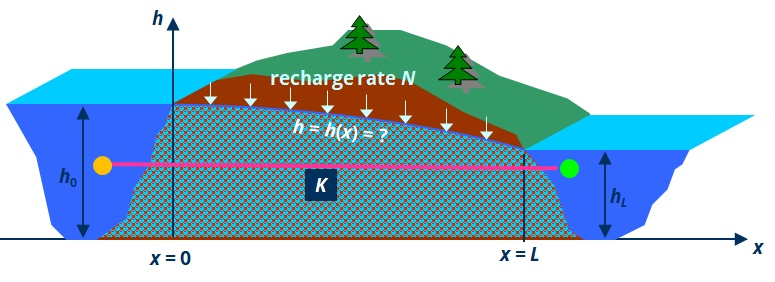
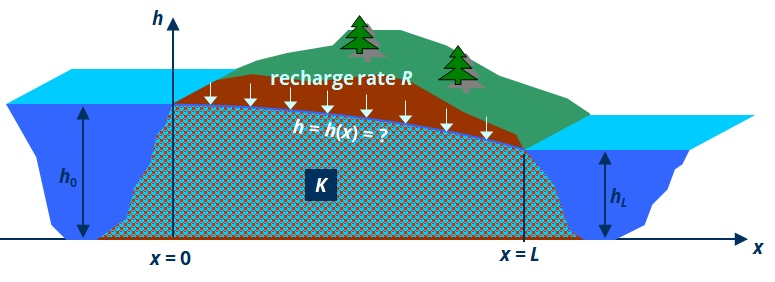
updates

Changed region(s): [[0.0929, 0.539, 0.7742, 0.6525], [0.5265, 0.2553, 0.5574, 0.3121]]

diff --git a/90_Streamlit_apps/SYMPLE25/pages/00_OM/1D_GWF_Unconfined Recharge.py b/90_Streamlit_apps/SYMPLE25/pages/00_OM/1D_GWF_Unconfined Recharge.py
@@ -7,6 +7,12 @@ import streamlit_book as stb
 from streamlit_extras.stylable_container import stylable_container
 
 st.title('Initial example for :green[System Understanding through Model Analysis]')
+
+st.markdown(
+    """
+    The aim of this tools is to provide an initial example of a model application. For this reason, the app considers a idealized scenario of a possible accident in a groundwater catchment. The analysis is done with an analytical solution of a groundwater flow model. This model allows to gain system understanding for the investigated aquifer, and to answer simple questions regarding groundwater management.
+    """
+)
 st.header('Analytical solution for 1D unconfined flow with two defined head boundaries', divider="green")
 st.markdown(
     """
@@ -27,14 +33,18 @@ st.markdown(
     
     """
 )
-left_co, right_co = st.columns((1,1))
-with left_co:
+left_co1, right_co1 = st.columns((1,1))
+with left_co1:
     st.image('90_Streamlit_apps/SYMPLE25/assets/images/GWF/GWF_002.jpg', caption="Fig 02: Top view of the area, showing the close proximity of active open pit mines and post-mining lakes. The spatial extent of the areal view is several 10s of kilometers.")
-with right_co:
+with right_co1:
     st.image('90_Streamlit_apps/SYMPLE25/assets/images/GWF/GWF_003.jpg', caption="Fig 03: Picture from the inside of an open pit mine, showing the geological composition of the underground, which is mainly thick sandy structures.")
 "---"
 
-if st.button('Click here if you want to read more about the underlying theory'):
+lc1, mc1, rc1 = st.columns([1,4,1])
+with mc1:
+    show_theory = st.button('Click here if you want to read more about the underlying theory')
+    
+if show_theory:
     st.subheader('Conceptual model')
     st.markdown(
         """
@@ -74,10 +84,19 @@ st.markdown(
     
     """
 )
-st.image('90_Streamlit_apps/SYMPLE25/assets/images/GWF/GWF_004.jpg', caption="Fig 04: Top view of the section between two post-mining lakes.")
+
+left_co2, right_co2 = st.columns((1,1))
+with left_co2:
+    st.image('90_Streamlit_apps/SYMPLE25/assets/images/GWF/GWF_004.jpg', caption="Fig 04: Top view of the section between two post-mining lakes.")
+with right_co2:
+    st.image('90_Streamlit_apps/SYMPLE25/assets/images/GWF/GWF_005.jpg', caption="Fig 05: The groundwater model for the investigated situation.")
+
 
 # Initial assessment
-show_initial_assessment = st.toggle("**Show the initial questions**")
+
+lc2, mc2, rc2 = st.columns([2,3,1])
+with mc2:
+    show_initial_assessment = st.button("**Show the initial questions**")
 if show_initial_assessment:
     stb.single_choice(":green[Assume a situation **without recharge** (recharge is zero, e.g., after a long and dry summer). You intend to compute the hydraulic heads _h(x)_ in the underground. **How much is the influence of the hydraulic conductivity _K_ on the solution?**]",
                   ["Very high influence", "High influence", "Intermediate influence", "Minor influence", "No influence"],
@@ -138,16 +157,13 @@ st.markdown(
     """
 )
 
-"---"
-
 # Input data
-
 # Define the minimum and maximum for the logarithmic scale
-log_min = -7.0 # Corresponds to 10^-7 = 0.0000001
-log_max = 0.0  # Corresponds to 10^0 = 1
+log_min = -7.0  # Corresponds to 10^-7 = 0.0000001
+log_max =  0.0  # Corresponds to 10^0 = 1
 
 log_min2 = -5.0 # Corresponds to 10^-7 = 0.0000001
-log_max2 = 3.0  # Corresponds to 10^0 = 1
+log_max2 =  3.0 # Corresponds to 10^0 = 1
 
 columns = st.columns((1,1,1), gap = 'large')
 
@@ -156,8 +172,8 @@ with columns[0]:
 
     
 with columns[1]:
-    hl=st.slider('LEFT defined head', 120,180,150,1)
-    hr=st.slider('RIGHT defined head', 120,180,152,1)
+    hl=st.slider('LEFT defined head', 120,180,102,1)
+    hr=st.slider('RIGHT defined head', 120,180,101,1)
     #L= st.slider('Length', 0,7000,2500,10)
     L = 2500
 
@@ -167,29 +183,31 @@ with columns[2]:
         # Input, convert the slider value to the logarithmic scale and display
         K_slider_valued=st.slider('(log of) **Hydraulic conductivity** _K_ in m/d', log_min2,log_max2,-2.0,0.01,format="%4.2f")
         Kd = (10 ** K_slider_valued)*86400
-        st.write("**Hydraulic conductivity in m/d:** %5.2e" %Kd)
+        st.write("**_K_ in m/d:** %5.2e" %Kd)
         K = Kd/86400
     else:
         # Input, convert the slider value to the logarithmic scale and display
         K_slider_value=st.slider('(log of) **Hydraulic conductivity** _K_ in m/s', log_min,log_max,-4.0,0.01,format="%4.2f")
         K = 10 ** K_slider_value
-        st.write("**Hydraulic conductivity in m/s:** %5.2e" %K)    
-    R=st.slider('**Recharge** _R_ in mm/a', -500,500,0,10)
+        st.write("**_K_ in m/s:** %5.2e" %K)    
+    R = st.slider('**Recharge** _R_ in mm/a', 0,500,0,10)
     
 x = np.arange(0, L,L/1000)
-R=R/1000/365.25/86400
-h=(hl**2-(hl**2-hr**2)/L*x+(R/K*x*(L-x)))**0.5
+R = R/1000/365.25/86400
+h = (hl**2-(hl**2-hr**2)/L*x+(R/K*x*(L-x)))**0.5
     
 # PLOT FIGURE
 fig = plt.figure(figsize=(9,6))
 ax = fig.add_subplot(1, 1, 1)
+plt.title('Hydraulic head for 1D unconfined flow', fontsize=16)
 ax.plot(x,h)
-ax.set(xlabel='x', ylabel='head',title='Hydraulic head for 1D unconfined flow')
+plt.xlabel(r'x in m', fontsize=14)
+plt.ylabel(r'hydraulic head in m', fontsize=14)
 ax.fill_between(x,0,h, facecolor='lightblue')
     
-# BOUNDARY CONDITIONS hl, hr
-ax.vlines(0, 0, hl, linewidth = 10, color='b')
-ax.vlines(L, 0, hr, linewidth = 10, color='b')
+# Show BOUNDARY CONDITIONS hl, hr
+ax.vlines(0, 0, hl, linewidth = 10, color='orange')
+ax.vlines(L, 0, hr, linewidth = 10, color='lime')
     
 # MAKE 'WATER'-TRIANGLE
 h_arrow = (hl**2-(hl**2-hr**2)/L*(L*0.96)+(R/K*(L*0.96)*(L-(L*0.96))))**0.5  #water level at arrow
@@ -210,12 +228,67 @@ if R != 0:
 #Groundwater divide
 max_y = max(h)
 max_x = x[h.argmax()]
-R_min_ms=K*abs(hl**2-hr**2)/L**2
+R_min_ms = K*abs(hl**2-hr**2)/L**2
 if R>R_min_ms:
     plt.vlines(max_x,0,max_y, color="r")
-
 plt.ylim(hl*(1-y_scale/100),hr*(1+y_scale/100))
 plt.xlim(-50,L+50)
-plt.text(L, (hr*1.016), 'R: {:.2e} m/s '.format(R), horizontalalignment='right', bbox=dict(boxstyle="square", facecolor='grey'))
-ax.grid()
+plt.text(L, (hl*1.016), 'R: {:.2e} m/s '.format(R), horizontalalignment='right', bbox=dict(boxstyle="square", facecolor='lightgrey'))
 st.pyplot(fig)
+
+"---"
+
+st.subheader('Concluding remarks')
+
+left_co3, right_co3 = st.columns((1.5,1))
+with left_co3:
+    st.markdown(
+        """
+        This app demonstrate a simple problem analysis with a groundwater model. In the example, we can identify the individual steps of the groundwater modeling workflow, shown in the following Fig 06.
+    
+        1. Question and purpose: The question and purpose of our analysis was 
+        - to gain system understanding (sensitivity of hydrogeological parameters like hydraulic conductivity _K_ and boundary conditions like recharge _R_),
+        - to answer the question, in which direction/lake a possible contamination move.
+        
+        Based on these (initial) questions and the idealized purpose of the model, we define a suitable and adequate conceptual model.
+        """
+)
+
+with right_co3:
+    st.image('90_Streamlit_apps/SYMPLE25/assets/images/GWF/GWF_006.jpg', caption="Fig 06: Typical workflow for groundwater modeling (according to Anderson et al. 2015.")
+
+st.markdown(
+    """    
+    2. Conceptual model: We use a very simple and idealized conceptual model. The underground is represented by one homogeneous and isotropic structure. The boundary conditions on both sides are the lakes - implemented as defined head (1st type) boundaries. In addition, there is groundwater recharge (2nd type boundary condition) from the top.
+    
+    The conceptual model (Fig 06) provides a qualitative description of the system. Subsequently, we need a quantitative solution.
+    """
+)
+st.image('90_Streamlit_apps/SYMPLE25/assets/images/GWF/GWF_007.jpg', caption="Fig 07: The conceptual model for the situation.")
+
+st.markdown(
+    """
+    3. Mathematical model: The mathematical model for our situation is an adapted version of the general 3D groundwater flow equation. In our case, we can simplify the groundwater flow equation for our conditions:
+    - 1D groundwater flow (along x-axis),
+    - homogeneous and isotropic aquifer,
+    - groundwater recharge as source term.
+   
+   With this, the groundwater flow equation writes (see explanation above):
+    """
+)
+st.latex(r'''\frac{d}{dx}=(-hK\frac{dh}{dx})=R''')
+
+st.markdown(
+    """
+    with suitable boundary conditions, the analytical solution ('groundwater model') of the 1D groundwater flow equation is:
+    """
+)
+st.latex(r'''h(x)=\sqrt{h_0^2-\frac{h_0^2-h_L^2}{L}x+\frac{R}{K}x(L-x)}''')
+
+st.markdown(
+    """
+    We used the groundwater model to investigate and analyze our scenario. For this reason, we applied the interactive plot as user-interface to our model.
+    """
+)
+
+"---"

diff --git a/90_Streamlit_apps/SYMPLE25/SYMPLE25.py b/90_Streamlit_apps/SYMPLE25/SYMPLE25.py
@@ -8,16 +8,22 @@ st.set_page_config(
 
 st.sidebar.success("☝ Select a page above. ☝")
 
-symple25app = st.Page("pages/SYMPLE25APP.py", title="📃 SYMPLE25 App")
-gfw_1D_unconf_rech_OM = st.Page("pages/GWF/1D_GWF_Unconfined Recharge.py", title="📈 ▶ 1D GWF unconfined with recharge")
-well_capture_OM = st.Page("pages/GWF/WellCapture.py", title="📈 ▶ Well Capture")
+# OVERVIEW SECTION
+symple25app = st.Page("pages/SYMPLE25APP.py", title="🌳 SYMPLE25 App")
+
+# Orientation meeting SECTION
+motivation = st.Page("pages/00_OM/Motivation_Hydrogeology.py", title="🙌 Motivation 4 Hydrogeology")
+gfw_1D_unconf_rech_OM = st.Page("pages/00_OM/1D_GWF_Unconfined Recharge.py", title="📈 ▶ Initial Model: 1D GWF")
+well_capture_OM = st.Page("pages/00_OM/WellCapture.py", title="📈 ▶ Initial Model: Well Capture")
+
+# About Section
 about = st.Page("pages/About.py", title="👉 About")
 
 pg = st.navigation(
     {
-        "Overview": [symple25app],
-        "Orientation meeting": [gfw_1D_unconf_rech_OM, well_capture_OM],
-        "About": [about],
+        "💦 Overview": [symple25app],
+        "🔶 Orientation meeting": [motivation, gfw_1D_unconf_rech_OM, well_capture_OM],
+        "💨 General info": [about],
     }
 )
 

diff --git a/90_Streamlit_apps/SYMPLE25/pages/00_OM/Motivation_Hydrogeology.py b/90_Streamlit_apps/SYMPLE25/pages/00_OM/Motivation_Hydrogeology.py
@@ -1,0 +1,10 @@
+# Initialize librarys
+import matplotlib
+import matplotlib.pyplot as plt
+import numpy as np
+import streamlit as st
+import streamlit_book as stb
+from streamlit_extras.stylable_container import stylable_container
+
+if st.toggle('show video'):
+    st.video('https://www.youtube.com/watch?v=I3zqpXxtsHY')
